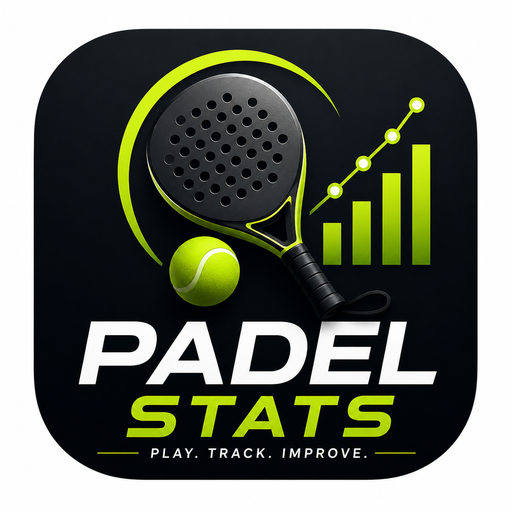
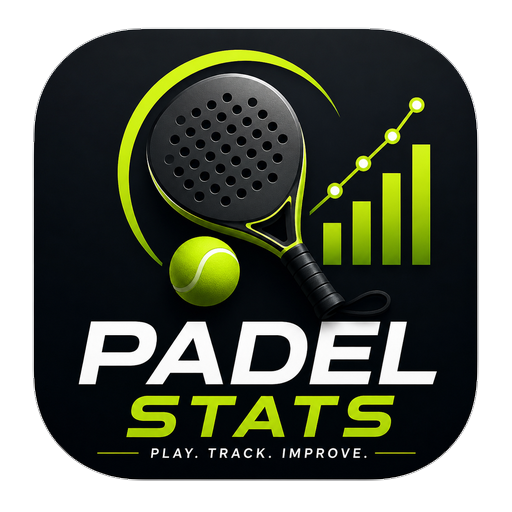
Add files via upload
padelstats-v2.4.7
logo e giocatori

diff --git a/style.css b/style.css
@@ -1443,11 +1443,15 @@ header h1{
 
 .rigaSet span{
 
-    width:90px;
+    width:110px;
 
     font-weight:600;
 
-    font-size:17px;
+    font-size:16px;
+
+    white-space:pre-line;
+
+    line-height:1.15;
 
 }
 

diff --git a/service-worker.js b/service-worker.js
@@ -1,4 +1,4 @@
-const CACHE_NAME = "padelstats-v2.4.6";
+const CACHE_NAME = "padelstats-v2.4.7";
 
 const ASSETS = [
     "./",